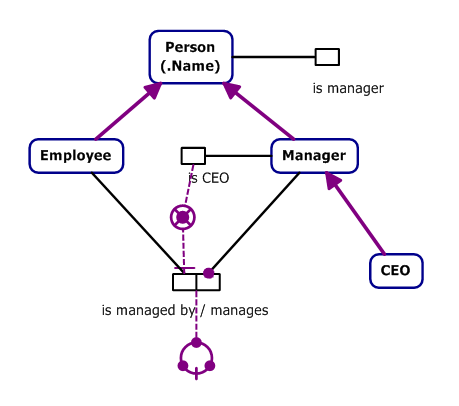
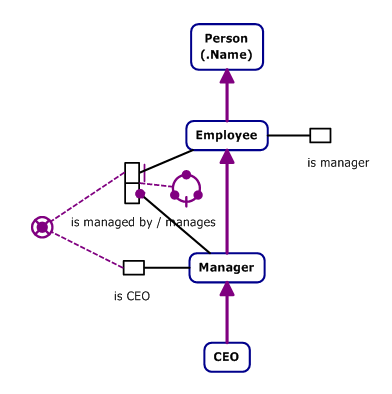
Revised EmployeeManagerCEO model

diff --git a/examples/ruby/EmployeeManagerCEO.rb b/examples/ruby/EmployeeManagerCEO.rb
@@ -8,15 +8,15 @@ module EmployeeManagerCEO
 
   class Person
     identified_by :person_name
-    maybe :is_manager
     one_to_one :person_name                     # See PersonName.person
   end
 
   class Employee < Person
+    maybe :is_manager
     has_one :manager                            # See Manager.all_employee
   end
 
-  class Manager < Person
+  class Manager < Employee
     maybe :is_ceo
   end
 
